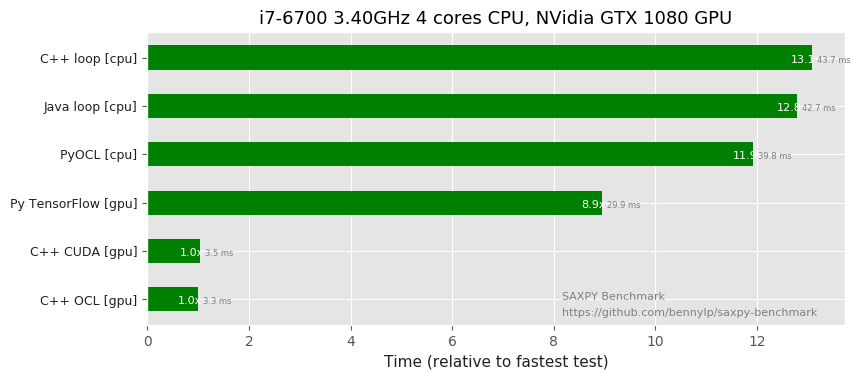
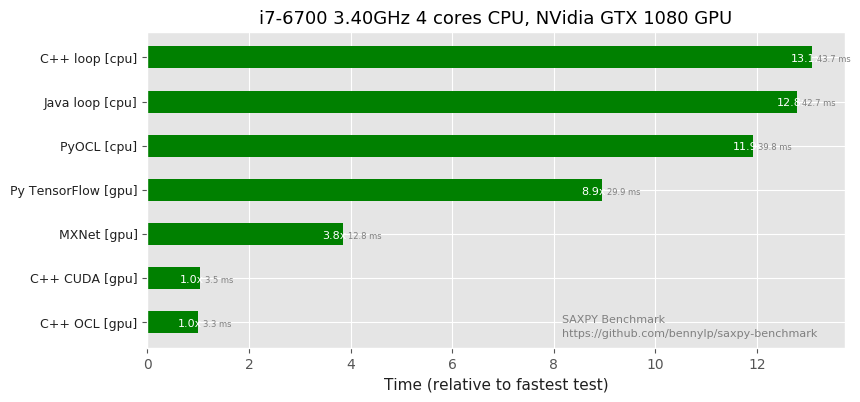
Added MXNet

diff --git a/saxpy_mxnet.py b/saxpy_mxnet.py
@@ -1,0 +1,33 @@
+from mxnet import nd
+import sys
+import time
+
+import mxnet as mx
+import numpy as np
+import saxpy
+
+
+if len(sys.argv) > 1 and sys.argv[1] == "gpu":
+    ctx = mx.gpu(0)
+elif len(sys.argv) == 1 or (len(sys.argv) > 1 and sys.argv[1] == "cpu"):
+    ctx = mx.cpu()
+else:
+    print("Error: unknown argument: {}".format(sys.argv[1]))
+    sys.exit(1)
+
+x = nd.zeros([saxpy.N], ctx=ctx, dtype=np.float32) + saxpy.XVAL
+y = nd.zeros([saxpy.N], ctx=ctx, dtype=np.float32) + saxpy.YVAL
+
+print("N: {}".format(len(x)))
+print("Context: {}".format(y.context))
+
+t0 = time.time()
+y += saxpy.AVAL * x
+y.wait_to_read()
+t1 = time.time()
+
+print("Elapsed: {} ms".format((t1 - t0) * 1000))
+
+TRUEVAL = saxpy.YVAL + saxpy.AVAL * saxpy.XVAL
+error = nd.sum(nd.abs(y - TRUEVAL))
+print("Error: {}".format(error.asnumpy()))

diff --git a/results/create_charts.py b/results/create_charts.py
@@ -15,7 +15,8 @@ known_columns = set(['Python loop [cpu]', 'Py Numpy [cpu]',
                      'Py TensorFlow [cpu]', 'Py TensorFlow [gpu]',
                      'Octave [cpu]', 'R [cpu]',
                      'Java loop [cpu]',
-                     'C++ OMP [cpu]'])
+                     'C++ OMP [cpu]',
+                     'MXNet [cpu]', 'MXNet [gpu]'])
 
 def create_chart(spec, output_md, use_rel=True):
     print('Processing {} "{}"'.format(spec['data'], spec['title']))

diff --git a/saxpy.py b/saxpy.py
@@ -1,10 +1,10 @@
+import numpy as np
 N = 2 ** 26
-XVAL = 2.5
-YVAL = 1.5
-AVAL = 3.5
+XVAL = np.float32(10 * np.random.rand())
+YVAL = np.float32(10 * np.random.rand())
+AVAL = np.float32(10 * np.random.rand())
 
 def verify(y):
-    import numpy as np
     err = np.sum(np.abs(np.array(y) - (AVAL * XVAL + YVAL)))
     print("Error: {}".format(err))
     return err == 0.0

diff --git a/results/README.md b/results/README.md
@@ -16,6 +16,8 @@ some statistics with them in the future:
 - C++ OMP [cpu]
 - C++ loop [cpu]
 - Java loop [cpu]
+- MXNet [cpu]
+- MXNet [gpu]
 - Octave [cpu]
 - Py Numpy [cpu]
 - Py TensorFlow [cpu]
@@ -50,6 +52,7 @@ Submitted by Benny Prijono on 2017-11-21
 | PyOpenCL | version 2015.1 |
 | Octave | version 4.0.0 64bit |
 | R | version 3.2.3 64bit |
+| MXNet | mxnet-cu90 (0.12.1) |
 
 
  ### Result Details
@@ -57,6 +60,7 @@ Submitted by Benny Prijono on 2017-11-21
 | Test   | Mean Time (ms) | StdDev (ms) | Time (rel)
 |--------| --------: | --------: | --------: |
 | Python loop [cpu] | 11934.702 | 178.077 | 3571.96x |
+| MXNet [cpu] | 226.005 | 1.247 | 67.64x |
 | Octave [cpu] | 217.682 | 0.993 | 65.15x |
 | R [cpu] | 151.504 | 0.774 | 45.34x |
 | C++ OMP [cpu] | 144.715 | 14.128 | 43.31x |
@@ -68,6 +72,7 @@ Submitted by Benny Prijono on 2017-11-21
 | Java loop [cpu] | 42.703 | 0.100 | 12.78x |
 | PyOCL [cpu] | 39.846 | 0.598 | 11.93x |
 | Py TensorFlow [gpu] | 29.887 | 0.068 | 8.94x |
+| MXNet [gpu] | 12.843 | 0.043 | 3.84x |
 | C++ CUDA [gpu] | 3.467 | 0.022 | 1.04x |
 | C++ OCL [gpu] | 3.341 | 0.012 | 1.00x |
 
@@ -80,6 +85,7 @@ Submitted by Benny Prijono on 2017-11-21
 ### Notes
 
 - **outlier "Python loop [cpu]" is removed from the chart because it is 3571x slower**
+- **outlier "MXNet [cpu]" is removed from the chart because it is 67x slower**
 - **outlier "Octave [cpu]" is removed from the chart because it is 65x slower**
 - **outlier "R [cpu]" is removed from the chart because it is 45x slower**
 - **outlier "C++ OMP [cpu]" is removed from the chart because it is 43x slower**
